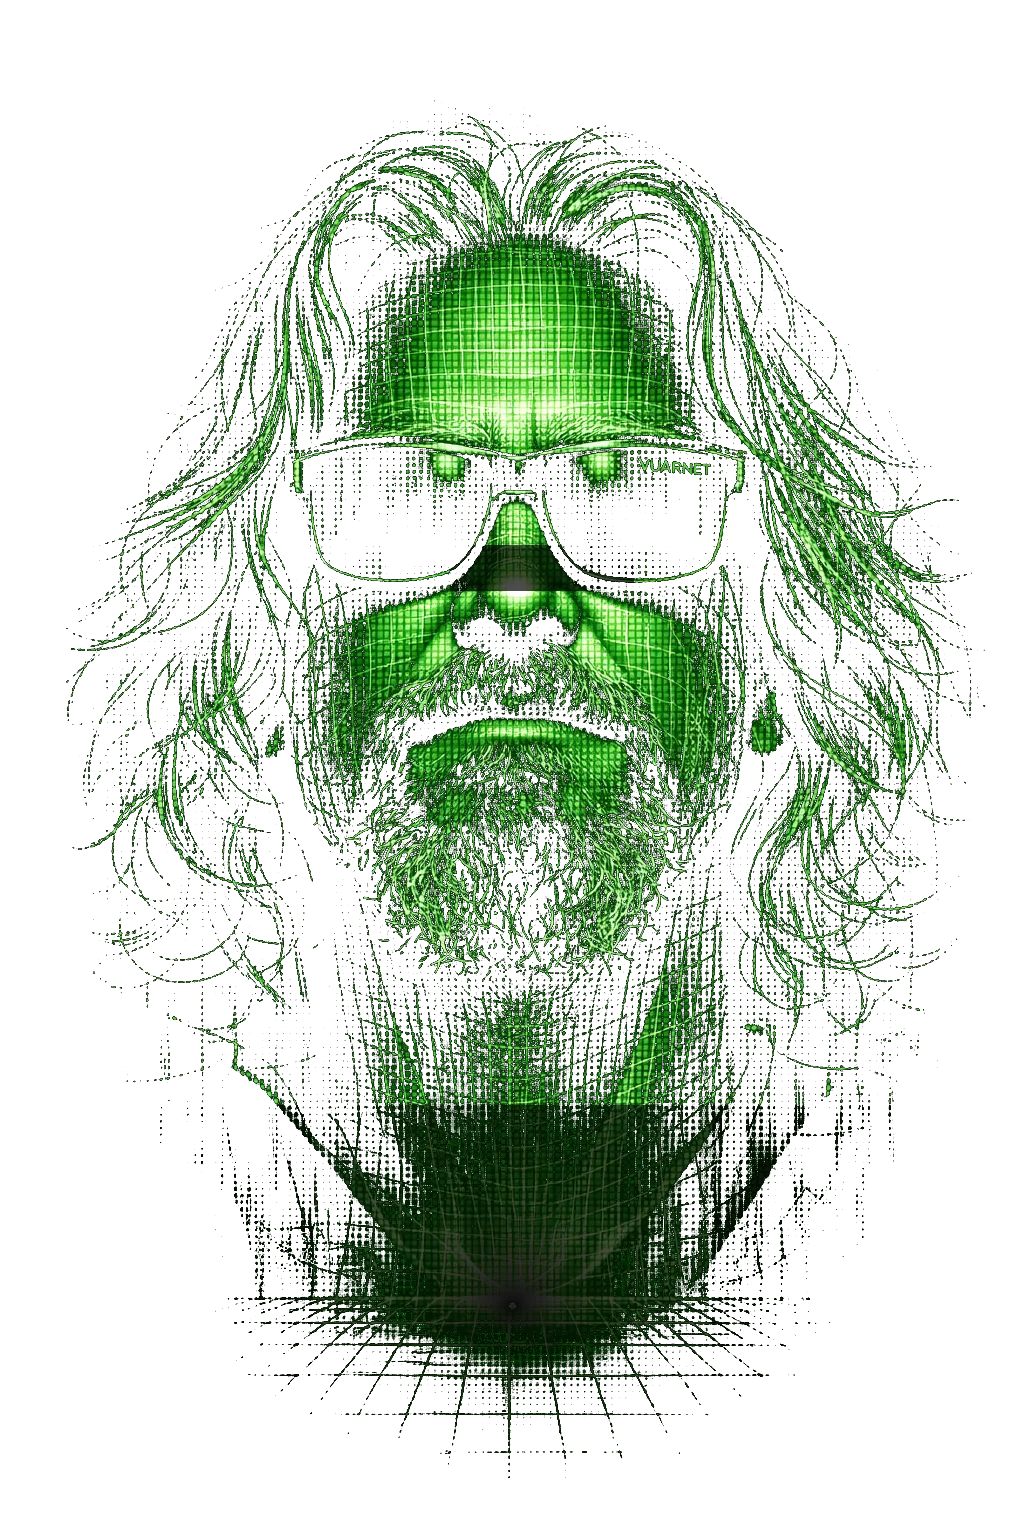
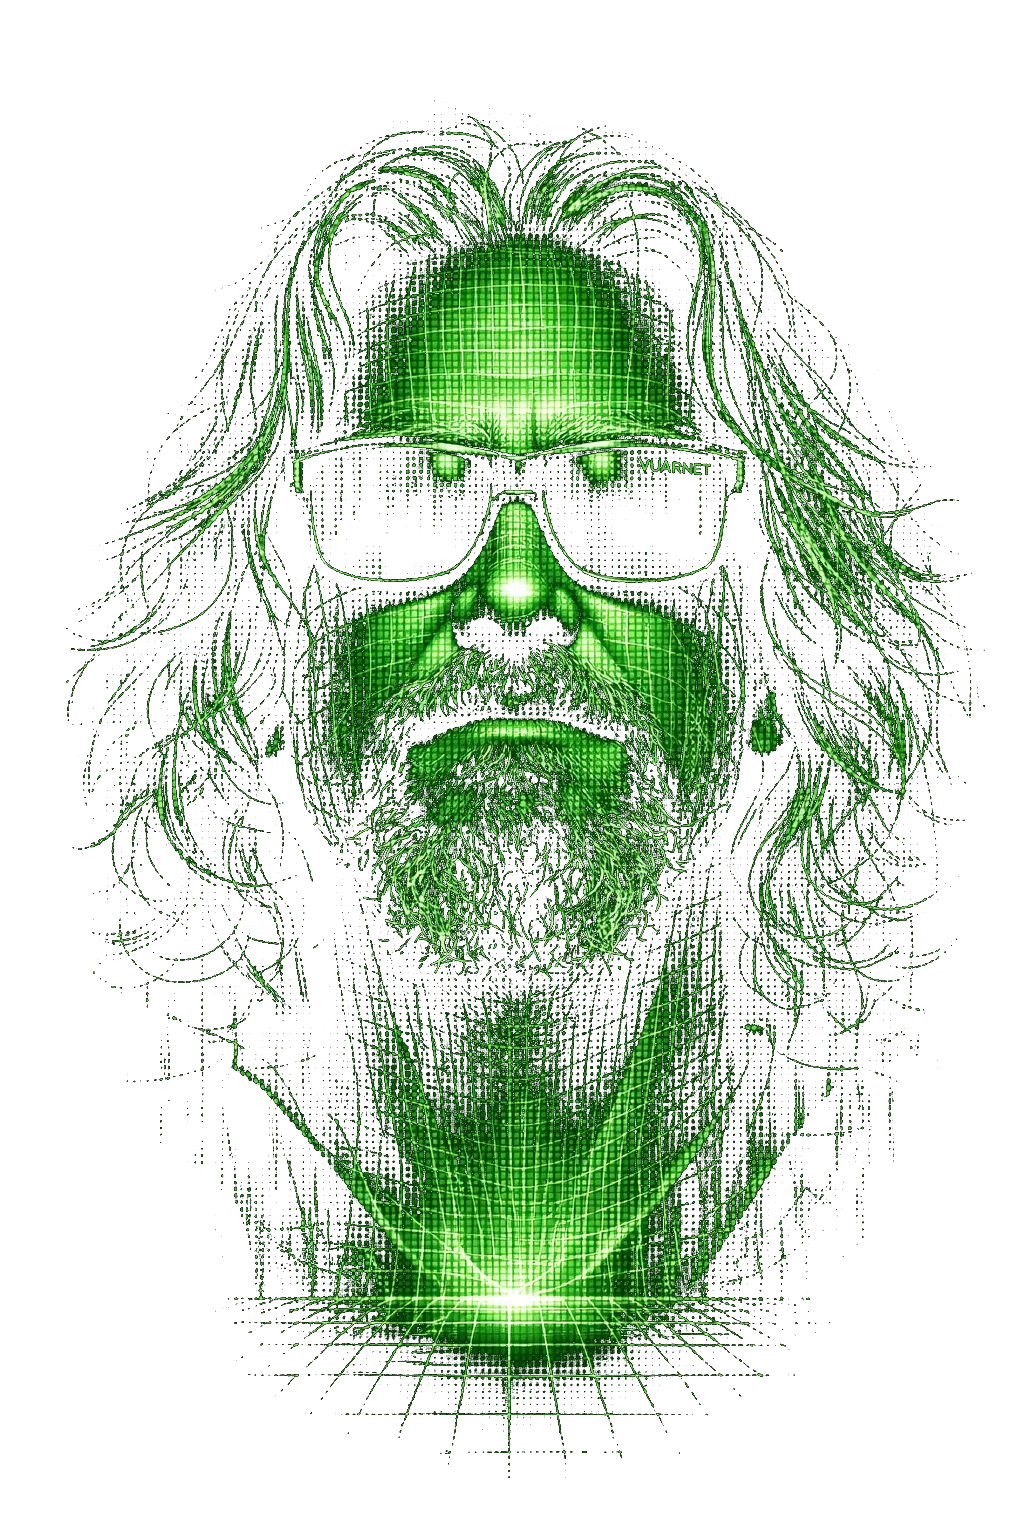
Add Spotify now-playing rain notifications, restore original Dude
- Add /api/now-playing endpoint (Spotify Web API polling)
- Add /api/notify and /api/notifications queue endpoints
- Add Matrix rain text animation for song change announcements
- Frontend polls Spotify every 5s, notifications every 2s
- Restore original untouched Dude portrait images

Changed region(s): [[0.2812, 0.7188, 0.7812, 0.9375], [0.4375, 0.3438, 0.5625, 0.4062], [0.8125, 0.7188, 0.8438, 0.75]]

diff --git a/index.html b/index.html
@@ -115,6 +115,11 @@ window.addEventListener('unhandledrejection', function(e) {
     width: 100%; height: 100%;
     z-index: 2; opacity: 0.25; pointer-events: none;
   }
+  #song-canvas {
+    position: fixed; top: 0; left: 0;
+    width: 100%; height: 100%;
+    z-index: 6; pointer-events: none;
+  }
   #scanlines {
     position: fixed; top: 0; left: 0;
     width: 100%; height: 100%;
@@ -342,6 +347,7 @@ window.addEventListener('unhandledrejection', function(e) {
   <div id="blink-bar"></div>
 </div>
 <canvas id="rain-overlay"></canvas>
+<canvas id="song-canvas"></canvas>
 <div id="scanlines"></div>
 <div id="vignette"></div>
 <div id="boot-screen"><pre id="boot-text"></pre></div>
@@ -387,6 +393,8 @@ const bgCanvas = document.getElementById('rain-canvas');
 const bgCtx = bgCanvas.getContext('2d');
 const olCanvas = document.getElementById('rain-overlay');
 const olCtx = olCanvas.getContext('2d');
+const songCanvas = document.getElementById('song-canvas');
+const songCtx = songCanvas.getContext('2d');
 const idleImg = document.getElementById('face-idle');
 const talkImg = document.getElementById('face-talk');
 
@@ -2029,13 +2037,14 @@ if (isMobile) {
 }
 function resizeCanvases() {
   if (isMobile) {
-    // Half resolution on mobile to avoid OOM (~12MB vs ~48MB per canvas)
     bgCanvas.width = Math.floor(window.innerWidth / 2);
     bgCanvas.height = Math.floor(window.innerHeight / 2);
   } else {
     bgCanvas.width = olCanvas.width = window.innerWidth;
     bgCanvas.height = olCanvas.height = window.innerHeight;
   }
+  songCanvas.width = window.innerWidth;
+  songCanvas.height = window.innerHeight;
 }
 resizeCanvases();
 window.addEventListener('resize', resizeCanvases);
@@ -2110,6 +2119,85 @@ function updateBreathing() {
 let crtGlitchX = 0;
 function crtEffects() { }
 
+// ── RAIN NOTIFICATIONS (song changes, alerts) ──
+let _textRainChars = [];
+let _lastTrackId = '';
+let SONG_HOLD_MS = 2500;
+
+function rainNotify(text, holdMs) {
+  spawnTextRain(text);
+  if (holdMs !== undefined) SONG_HOLD_MS = holdMs;
+}
+
+function spawnTextRain(text) {
+  const sz = isMobile ? 14 : 18;
+  const chars = text.split('');
+  const cw = songCanvas.width;
+  const ch = songCanvas.height;
+  const landY = ch - 120;
+  const charW = sz * 0.6;
+  const startX = Math.max(10, Math.floor((cw - chars.length * charW) / 2));
+  chars.forEach((c, i) => {
+    _textRainChars.push({
+      char: c, x: startX + i * charW,
+      y: -sz * (2 + Math.random() * 8),
+      landY: landY, speed: 2.5 + Math.random() * 2.0,
+      alpha: 0.7, state: 'falling', landedAt: 0,
+    });
+  });
+}
+
+function drawTextRain() {
+  const ctx = songCtx;
+  ctx.clearRect(0, 0, songCanvas.width, songCanvas.height);
+  if (_textRainChars.length === 0) return;
+  const sz = isMobile ? 14 : 18;
+  const now = performance.now();
+  ctx.font = `bold ${sz}px 'Courier New', monospace`;
+  for (let i = _textRainChars.length - 1; i >= 0; i--) {
+    const c = _textRainChars[i];
+    if (c.state === 'falling') {
+      c.y += c.speed;
+      if (c.y >= c.landY) { c.y = c.landY; c.state = 'landed'; c.landedAt = now; }
+      ctx.fillStyle = `rgba(0,255,65,${c.alpha * 0.8})`;
+      ctx.shadowColor = '#00ff41'; ctx.shadowBlur = 6;
+    } else if (c.state === 'landed') {
+      if (now - c.landedAt > SONG_HOLD_MS) c.state = 'fading';
+      ctx.fillStyle = `rgba(0,255,65,${c.alpha * 0.6})`;
+      ctx.shadowColor = '#00ff41'; ctx.shadowBlur = 4;
+    } else if (c.state === 'fading') {
+      c.alpha -= 0.02;
+      if (c.alpha <= 0) { _textRainChars.splice(i, 1); continue; }
+      ctx.fillStyle = `rgba(0,255,65,${c.alpha * 0.5})`;
+      ctx.shadowBlur = 0;
+    }
+    ctx.fillText(c.char, c.x, c.y);
+    ctx.shadowBlur = 0;
+  }
+}
+
+function startNowPlayingPoll() {
+  setInterval(async () => {
+    try {
+      const r = await fetch(`${API}/api/now-playing`);
+      const d = await r.json();
+      if (!d.playing || !d.track) return;
+      const tid = d.track + '|' + d.artist;
+      if (tid !== _lastTrackId) {
+        _lastTrackId = tid;
+        rainNotify(d.track + '  \u00b7  ' + d.artist);
+      }
+    } catch(e) {}
+  }, 5000);
+  setInterval(async () => {
+    try {
+      const r = await fetch(`${API}/api/notifications`);
+      const d = await r.json();
+      for (const n of (d.notifications || [])) rainNotify(n.text, n.hold_ms);
+    } catch(e) {}
+  }, 2000);
+}
+
 // ── MAIN LOOP ──
 let lastMainFrame = 0;
 function mainLoop(ts) {
@@ -2122,6 +2210,7 @@ function mainLoop(ts) {
   } else {
     if (bgRain) drawRainLayer(bgCtx, bgRain, 0.045);
     if (olRain) drawRainLayer(olCtx, olRain, 0.055);
+    drawTextRain();
     updateBreathing();
   }
   requestAnimationFrame(mainLoop);
@@ -2164,7 +2253,7 @@ let started = false;
 function tryStart() {
   if (started || loaded < 2) return;
   started = true;
-  mainLoop(); crtEffects(); updateMouthAnimation();
+  mainLoop(); crtEffects(); updateMouthAnimation(); startNowPlayingPoll();
   setTimeout(boot, 400);
 }
 function onReady() {

diff --git a/api_server.py b/api_server.py
@@ -444,6 +444,93 @@ async def client_error(request: Request):
     return {"ok": True}
 
 
+# ── NOTIFICATION QUEUE ──
+_notify_queue: list = []
+
+
+class NotifyRequest(BaseModel):
+    text: str = Field(..., min_length=1, max_length=500)
+    hold_ms: int = Field(default=2500, ge=500, le=30000)
+
+
+@app.post("/api/notify")
+async def notify(req: NotifyRequest):
+    """Queue a rain notification for the UI."""
+    _notify_queue.append({"text": req.text, "hold_ms": req.hold_ms})
+    log.info(f"Notification queued: {req.text[:60]}")
+    return {"ok": True}
+
+
+@app.get("/api/notifications")
+async def get_notifications():
+    """Frontend polls this to pick up queued notifications."""
+    if not _notify_queue:
+        return {"notifications": []}
+    batch = list(_notify_queue)
+    _notify_queue.clear()
+    return {"notifications": batch}
+
+
+# ── SPOTIFY NOW PLAYING ──
+_spotify_token = {"access_token": "", "expires_at": 0}
+_SPOTIFY_CLIENT_ID = "747f2db203894b13b609fe798bde1341"
+_SPOTIFY_CLIENT_SECRET = "8373fe185b1c46ad8886e13fc2cebc8e"
+_SPOTIFY_REFRESH_TOKEN = "AQB89Y803FZxxPV0T63k7Q3lsnkVK6eern8xP1Xl-gxQd0jIaLJjyKt2SpRQuOl2b0GL971eJYPxcrdypNBvc4gaXnRy6ZLU-d6D_RGxKycXiY6eKKAefh_dCqQ0J6NmCqU"
+
+
+async def _spotify_ensure_token():
+    """Refresh Spotify access token if expired."""
+    import aiohttp
+    if time.time() < _spotify_token["expires_at"] - 60:
+        return _spotify_token["access_token"]
+    auth = base64.b64encode(f"{_SPOTIFY_CLIENT_ID}:{_SPOTIFY_CLIENT_SECRET}".encode()).decode()
+    async with aiohttp.ClientSession() as s:
+        async with s.post(
+            "https://accounts.spotify.com/api/token",
+            headers={"Authorization": f"Basic {auth}", "Content-Type": "application/x-www-form-urlencoded"},
+            data=f"grant_type=refresh_token&refresh_token={_SPOTIFY_REFRESH_TOKEN}",
+        ) as r:
+            data = await r.json()
+            _spotify_token["access_token"] = data.get("access_token", "")
+            _spotify_token["expires_at"] = time.time() + data.get("expires_in", 3600)
+            return _spotify_token["access_token"]
+
+
+@app.get("/api/now-playing")
+async def now_playing():
+    """Return current Spotify track info."""
+    try:
+        import aiohttp
+        token = await _spotify_ensure_token()
+        if not token:
+            return {"playing": False}
+        async with aiohttp.ClientSession() as s:
+            async with s.get(
+                "https://api.spotify.com/v1/me/player",
+                headers={"Authorization": f"Bearer {token}"},
+            ) as r:
+                if r.status == 204 or r.status == 202:
+                    return {"playing": False}
+                if r.status != 200:
+                    return {"playing": False}
+                data = await r.json()
+                item = data.get("item", {})
+                if not item:
+                    return {"playing": False}
+                artists = ", ".join(a["name"] for a in item.get("artists", []))
+                return {
+                    "playing": data.get("is_playing", False),
+                    "track": item.get("name", ""),
+                    "artist": artists,
+                    "album": item.get("album", {}).get("name", ""),
+                    "progress_ms": data.get("progress_ms", 0),
+                    "duration_ms": item.get("duration_ms", 0),
+                }
+    except Exception as e:
+        log.warning("Spotify now-playing error: %s", e)
+        return {"playing": False}
+
+
 @app.get("/api/health")
 async def health():
     return {
